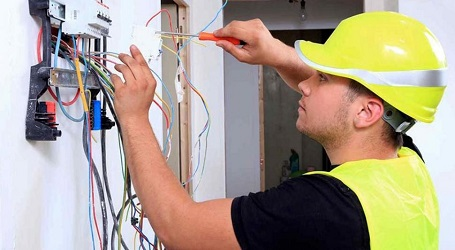
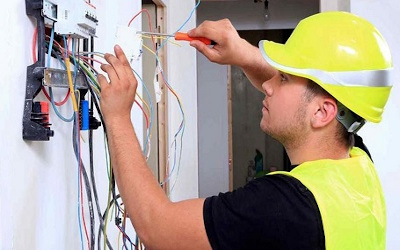
Agrego bootstrap a empresa.html

diff --git a/pages/empresa.html b/pages/empresa.html
@@ -56,22 +56,27 @@
         </header>
 
         <main class="contenido">
-            <section class="contenido__sectionServiciosEmpresa">
-                <p class="contenido__sectionServiciosEmpresa__parrafo contenido__sectionServiciosEmpresa__main1">
-                    Somos una empresa familiar que se creo con el fin de poder ofrecer soluciones a problemas relacionados con la eléctricidad, a toda persona que resida en la provincia de Córdoba. Fue formada en el año 2005 con la premisa de brindar seguridad eléctrica a todos nuestros clientes.
-                </p>
-                <img class="contenido__sectionServiciosEmpresa__imagen contenido__sectionServiciosEmpresa__main1" src="../images/trabajador_1.jpg" alt="trabajador_1">
+                <section class="contenido__sectionServiciosEmpresa container">
+                    <div class="contenido__sectionServiciosEmpresa__card row">
+                        <p class="contenido__sectionServiciosEmpresa__parrafo col-lg-6 col-md-6 col-sm-12">
+                            Somos una empresa familiar que se creo con el fin de poder ofrecer soluciones a problemas relacionados con la eléctricidad, a toda persona que resida en la provincia de Córdoba. Fue formada en el año 2005 con la premisa de brindar seguridad eléctrica a todos nuestros clientes.
+                        </p>
+                        <img class="contenido__sectionServiciosEmpresa__imagen col-lg-6 col-md-6 col-sm-12" src="../images/trabajador_1.jpg" alt="trabajador_1">
+                    </div>
 
-                <p class="contenido__sectionServiciosEmpresa__parrafo contenido__sectionServiciosEmpresa__main2">
-                    Todo nuestro personal se encuentra altamente entrenado y realiza capacitaciones constantes para poder estar a la altura de las nuevas tecnologías que surgen en el mercado y que nuestros clientes nos requieren. Trabajamos con materiales y herramientas de primera calidad.
-                </p>
-                <img class="contenido__sectionServiciosEmpresa__imagen contenido__sectionServiciosEmpresa__main2" src="../images/trabajador_2.jpg" alt="trabajador_2">
-
-                <p class="contenido__sectionServiciosEmpresa__parrafo contenido__sectionServiciosEmpresa__main3">
-                    Elec es la única empresa que cuenta con más de 50 profesionales matriculados según lo que exige la Ley de Seguridad Eléctrica de Córdoba, aprobada en el año 2017. Somos sinónimo de Calidad, Responsabilidad y Eficiencia.
-                </p>
-                <img class="contenido__sectionServiciosEmpresa__imagen contenido__sectionServiciosEmpresa__main3" src="../images/trabajador_3.jpg" alt="trabajador_3">
-            </section>
+                    <div class="contenido__sectionServiciosEmpresa__card row">
+                        <p class="contenido__sectionServiciosEmpresa__parrafo col-lg-6 col-md-6 col-sm-12">
+                            Todo nuestro personal se encuentra altamente entrenado y realiza capacitaciones constantes para poder estar a la altura de las nuevas tecnologías que surgen en el mercado y que nuestros clientes nos requieren. Trabajamos con materiales y herramientas de primera calidad.
+                        </p>
+                        <img class="contenido__sectionServiciosEmpresa__imagen col-lg-6 col-md-6 col-sm-12" src="../images/trabajador_2.jpg" alt="trabajador_2">
+                    </div>
+                    <div class="contenido__sectionServiciosEmpresa__card row">
+                        <p class="contenido__sectionServiciosEmpresa__parrafo col-lg-6 col-md-6 col-sm-12">
+                            Elec es la única empresa que cuenta con más de 50 profesionales matriculados según lo que exige la Ley de Seguridad Eléctrica de Córdoba, aprobada en el año 2017. Somos sinónimo de Calidad, Responsabilidad y Eficiencia.
+                        </p>
+                        <img class="contenido__sectionServiciosEmpresa__imagen col-lg-6 col-md-6 col-sm-12" src="../images/trabajador_3.jpg" alt="trabajador_3">
+                    </div>
+                </section>
         </main>
 
         <footer class="pieDePagina">               

diff --git a/styles/estilos.css b/styles/estilos.css
@@ -15,7 +15,7 @@ Tamaño de Fuente: font-size: 18px;
 }
 body{
     font-family: 'Roboto', sans-serif;
-    font-size: 18px;
+    font-size: 16px;
     color: #e3e3e3;
     background-color: #242525;
 }
@@ -128,4 +128,20 @@ a:hover{
 
 .contenido__sectionPresupuesto__ContenedorDos__bannerPresupuestos{
     margin-right: 2rem;
+}
+
+/* Nuestra Empresa */
+
+.contenido__sectionServiciosEmpresa__imagen{
+    width: 25rem;
+    border-radius: 10%;
+    margin: 1rem;
+}
+
+.contenido__sectionServiciosEmpresa__parrafo{
+    margin-top: 3.5rem;
+}
+
+.contenido__sectionServiciosEmpresa{
+    margin-bottom: 2rem;
 }

diff --git a/pages/presupuestos.html b/pages/presupuestos.html
@@ -56,6 +56,7 @@
         </header>
 
         <main class="contenido">
+            <!-- Bootstrap flex -->
             <section class="contenido__sectionPresupuesto d-flex flex-row justify-content-evenly">
                 <!-- Bootstrap grid -->
                 <div class="contenido__sectionPresupuesto__ContenedorUno container">
